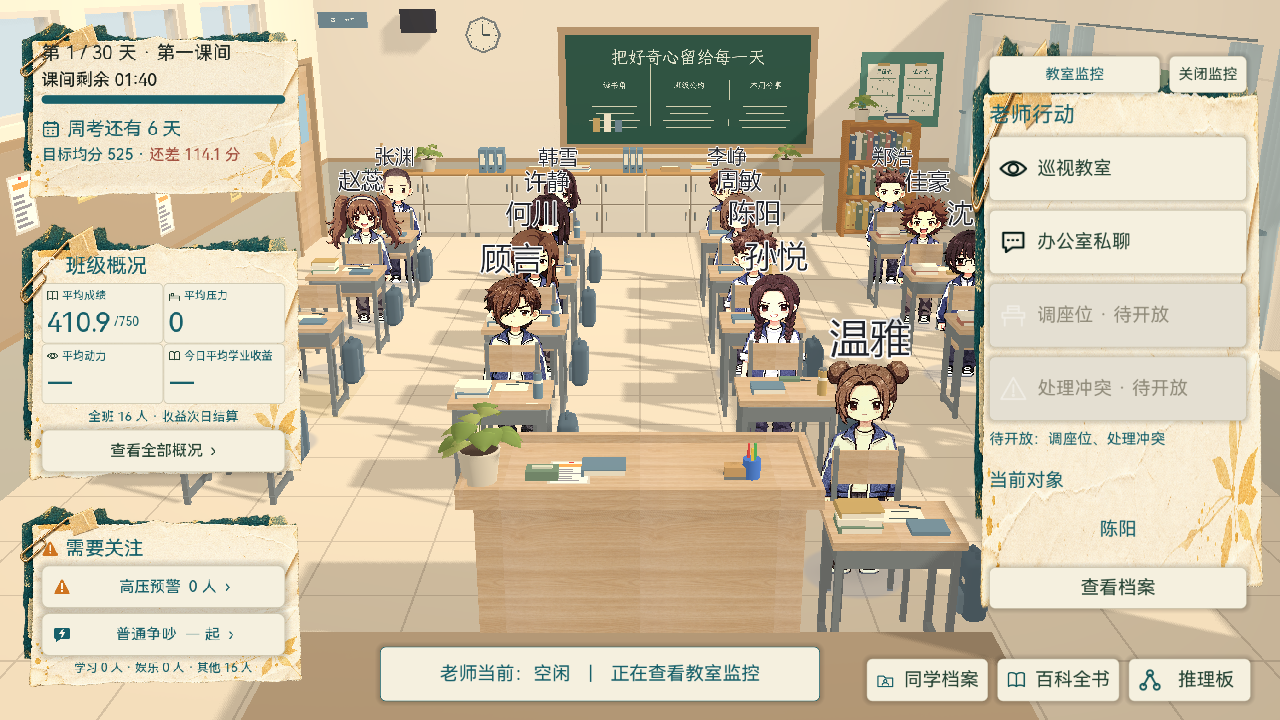
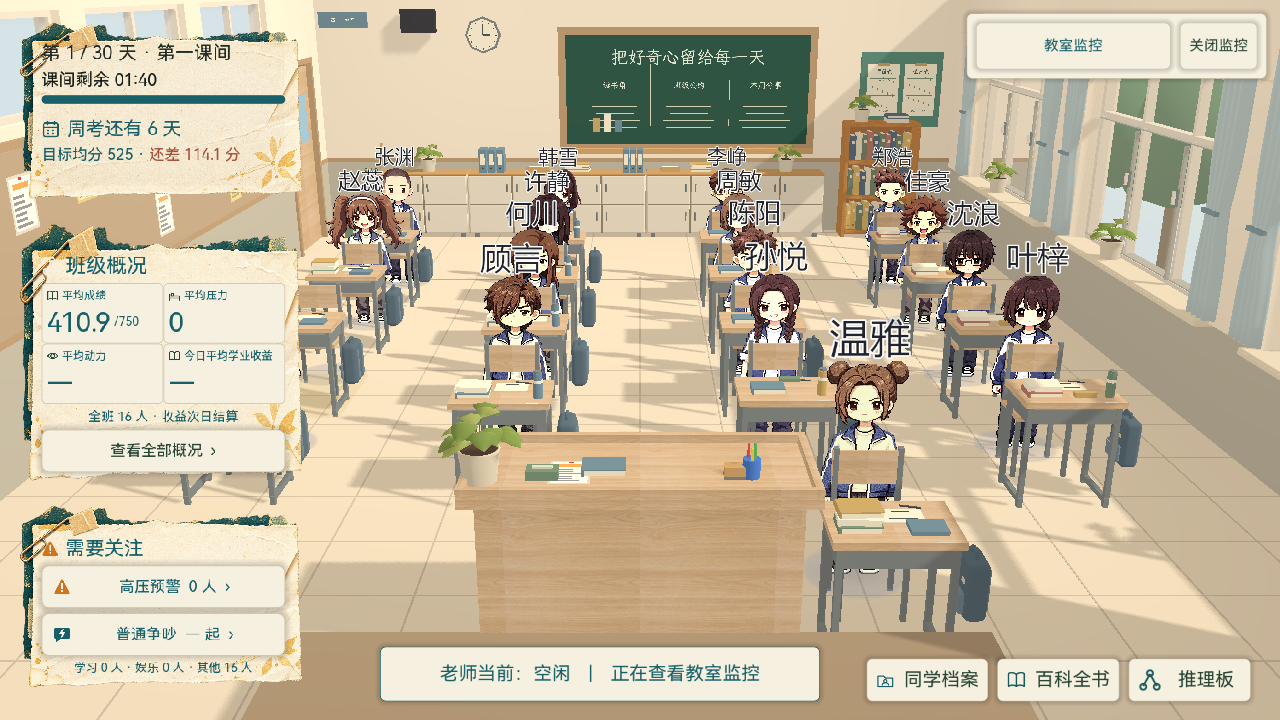
fix(ui): 监控状态不再显示老师行动面板（点击学生直接开档案）
- 监控不再显示右侧老师行动／当前对象纸卡：新增 MonitorHeader 节点承载监控标题与关闭入口，%Frame（老师行动与当前对象）只在「实际进入教室」时显示；切换模式时 %ModeRow 按目标容器 reparent，回到现场时置顶。
- 监控点击学生直接打开只读档案（office_hub 在 monitor 模式下选中即调用 open_profile），不触发现场干预。
- 回归补断言：监控不显示行动纸卡、监控仍有关闭入口、实际进入教室才显示行动纸卡、任意横屏尺寸下监控都不显示行动纸卡；同步更新监控实现截图、办公室验收记录与主文档实现状态。
- 顺带补入 main 音效提交遗漏的 data/rules/audio.csv.import（与仓库内其它 csv 的 .import 一致入库，避免每次由本机生成）。
- 验证：GUT unit 413（411 通过 + 2 pending）、integration 25（20 通过 + 5 pending，退出码 0）、emergence 13 pending，均无失败用例；快门禁（check_config 313/313、test_core 61/61、verify_formula 11/11、check_docs 全绿）通过；gdformat --check 与 gdlint 对本次涉及脚本无告警。
- 检验一：只改监控／现场显示与只读跳转，不写关系矩阵、不改内核状态、不消耗模拟随机数，也不预设学生事件。

Changed region(s): [[0.75, 0.0, 1.0, 0.8556]]

diff --git a/docs/gdd/core-gameplay-v3.1.md b/docs/gdd/core-gameplay-v3.1.md
@@ -440,6 +440,8 @@
 
 ## 13.3 实现状态
 
+监控界面仅保留观察、只读工具与关闭监控入口，右侧老师行动／当前对象纸卡仅在实际进入教室时显示；监控点击学生直接查看档案，不触发现场干预。
+
 教室表现已区分监控和实际进入教室两种状态；右侧为老师行动与只读学生档案入口，旧学生行为栏、纸条和邀请弹窗不再运行或显示。旧玩家形象与拾取体仅在表现层隐藏／关闭，模拟仍为待迁移的学生版；巡视数值、私聊、调座位和冲突处理效果不由本次 UI 改动宣称完成。
 
 2026-10-14 已新增移动端办公室表现界面：同一教室实例保留运行，办公室提供教室监控、去教室、叫学生来、同学档案、推理板与百科入口。监控为只读视图；“叫学生来”目前只有学生选择与未接入提示，不执行私聊或任何老师数值效果。办公室界面完成不代表下述老师版内核迁移完成；详情见 [办公室界面验收](../qa/办公室界面验收-2026-10-14.md)。

diff --git a/CHANGELOG.md b/CHANGELOG.md
@@ -1,5 +1,9 @@
 # 变更记录
 
+- **监控去除老师行动面板（2026-10-14，UI）**
+  - 监控不再显示右侧老师行动／当前对象纸卡，只保留独立的监控标题、关闭入口、观察信息及只读工具；点击学生直接打开档案。
+  - 老师行动纸卡仅在实际进入教室时显示，办公室与现场操作入口不变。模式往返与两种横屏尺寸回归通过。
+
 - **学生找伴、团体接受与带朋友规则（2026-10-14，策划）**
   - 主文档 §9.1 明确所有需要伙伴的行为优先邀请高好感且可参与的对象；参与者可邀请朋友加入原活动。
   - 接受采用现有成员逐人投票：成员对加入者好感减敌对至少为 10 才同意，严格过半通过、平票拒绝；不使用概率或隐藏性格修正。忙碌等不可参与状态与关系拒绝区分。
